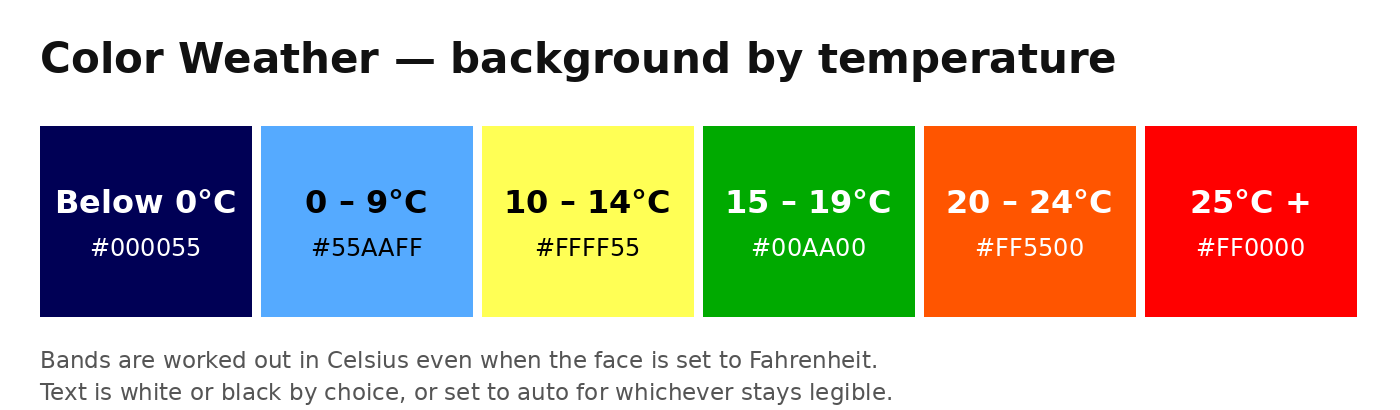
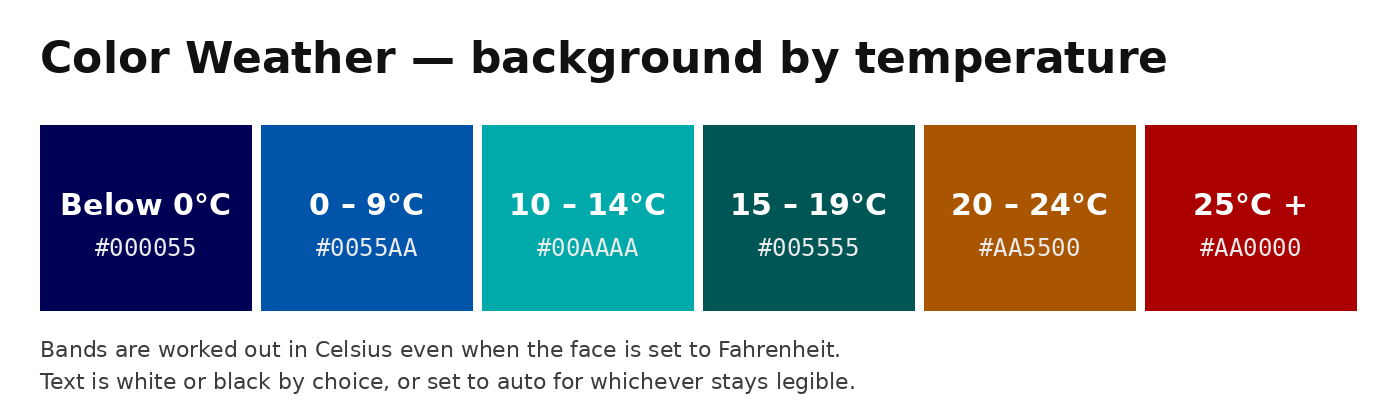
Correct the Color Weather temperature band colours
The post listed a brighter palette than the watchface actually uses. Updated
the hex values and the prose to the Pebble palette colours in the source, and
regenerated the bands image to match.

diff --git a/site/src/posts/2026/09/2026-09-09-color-weather-a-data-watch-face-for-the-pebble-time-2.md b/site/src/posts/2026/09/2026-09-09-color-weather-a-data-watch-face-for-the-pebble-time-2.md
@@ -18,16 +18,16 @@ hero: "/assets/uploads/2026/09/color-weather-pebble-time-2.png"
 <p>The idea is simple enough, and builds on a <a href="https://www.digitalurban.org/mqtt-weather/">web based dashboard</a> built over 10 years ago with a background set using the outside temperature.</p>
 <figure class="wp-block-image size-large"><img src="/assets/uploads/2026/09/mqtt-weather-dashboard.png" alt="The MQTT weather dashboard, background set by the outside temperature" />
 <figcaption>The original dashboard - same idea, rather more room for it.</figcaption></figure>
-<p>The concept is same, but on a much smaller screen - the background is the temperature. Dark navy for a freeze, light blue for a cold morning, through yellow and green in the mild middle, into orange and then red when it's genuinely hot.</p>
+<p>The concept is same, but on a much smaller screen - the background is the temperature. Dark navy for a freeze, cobalt blue for a cold morning, through teal and a deep green in the mild middle, into tan and then a dark red when it's genuinely hot. Muted rather than bright - the duller palette turned out to work better on the watch.</p>
 <figure class="wp-block-image size-large"><img src="/assets/uploads/2026/09/color-weather-temperature-bands.png" alt="The six Color Weather background bands and their hex values" />
 <figcaption>The six background bands and their hex values.</figcaption></figure>
 <ul>
- 	<li>Below 0°C - <code>#000055</code></li>
- 	<li>0 to 9°C - <code>#55AAFF</code></li>
- 	<li>10 to 14°C - <code>#FFFF55</code></li>
- 	<li>15 to 19°C - <code>#00AA00</code></li>
- 	<li>20 to 24°C - <code>#FF5500</code></li>
- 	<li>25°C and above - <code>#FF0000</code></li>
+ 	<li>Below 0°C - <code>#000055</code> Oxford Blue</li>
+ 	<li>0 to 9°C - <code>#0055AA</code> Cobalt Blue</li>
+ 	<li>10 to 14°C - <code>#00AAAA</code> Tiffany Blue</li>
+ 	<li>15 to 19°C - <code>#005555</code> Midnight Green</li>
+ 	<li>20 to 24°C - <code>#AA5500</code> Windsor Tan</li>
+ 	<li>25°C and above - <code>#AA0000</code> Dark Candy Apple Red</li>
 </ul>
 <p>On top of the colour sits the usual data - time and a condition icon, city and temperature, conditions, pressure in millibars with its three hour trend, wind, rainfall, UV, and the day's step count and distance.</p>
 <p>The face also keeps a rolling history and compares now against roughly three hours ago. A fall of 4 hPa or more puts <strong>Storm Warning</strong> on the screen, 6 hPa or more escalates it to <strong>Severe Storm</strong>, and the watch buzzes once when a warning first appears.</p>
